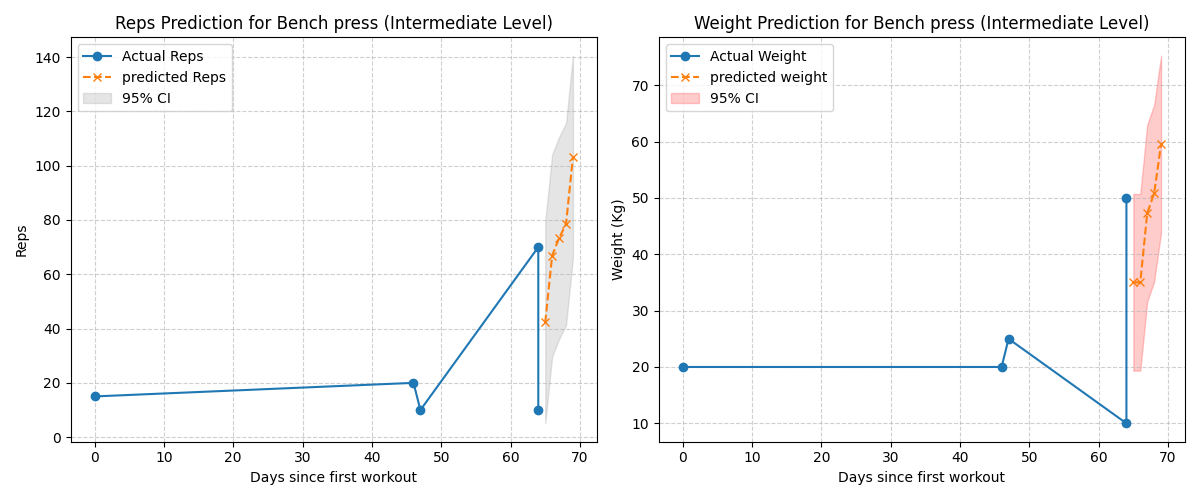
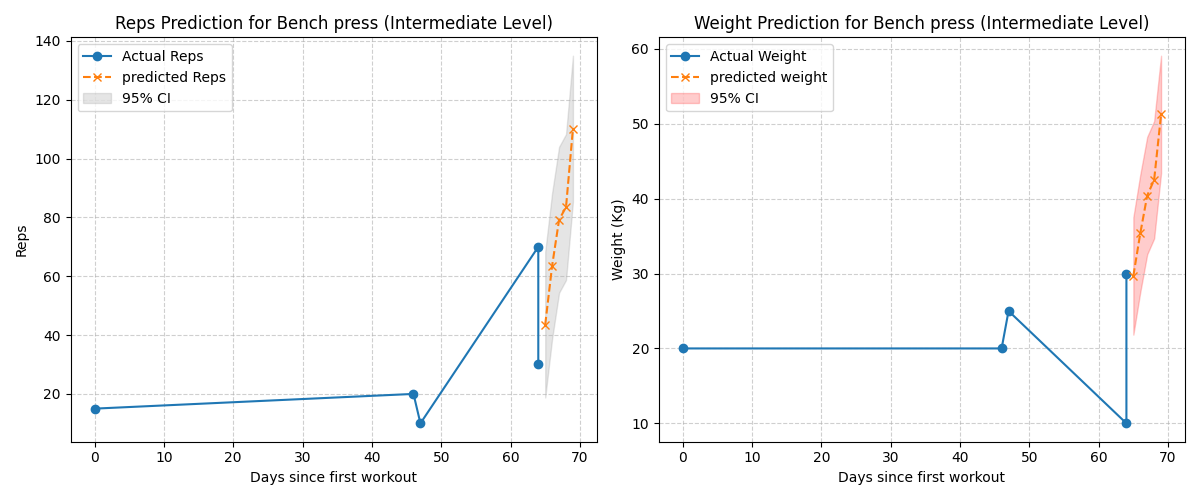
kya

diff --git a/predictor.py b/predictor.py
@@ -116,7 +116,7 @@ def predict_targets(dates, reps, weights=None, exercise_name="bench press", user
        future_reps = np.maximum(future_reps, last_reps)
        for i in range(1, len(future_reps)):
            if future_reps[i] < future_reps[i-1]:
-               future_reps[i] = future_reps[i-1] * 1.02
+               future_reps[i] = future_reps[i-1] * 1.05
       
        weights = None
         
@@ -128,7 +128,7 @@ def predict_targets(dates, reps, weights=None, exercise_name="bench press", user
       
         residuals = reps - np.array([predict(reps_coeffs, d) for d in days])
         reps_ci = 1.96 * np.std(residuals)
-        
+
         weights_coeffs = polynomial_regression(days, weights, degree=2)
         future_weights = np.array([predict(weights_coeffs, d) for d in future_days], dtype=float)
         
